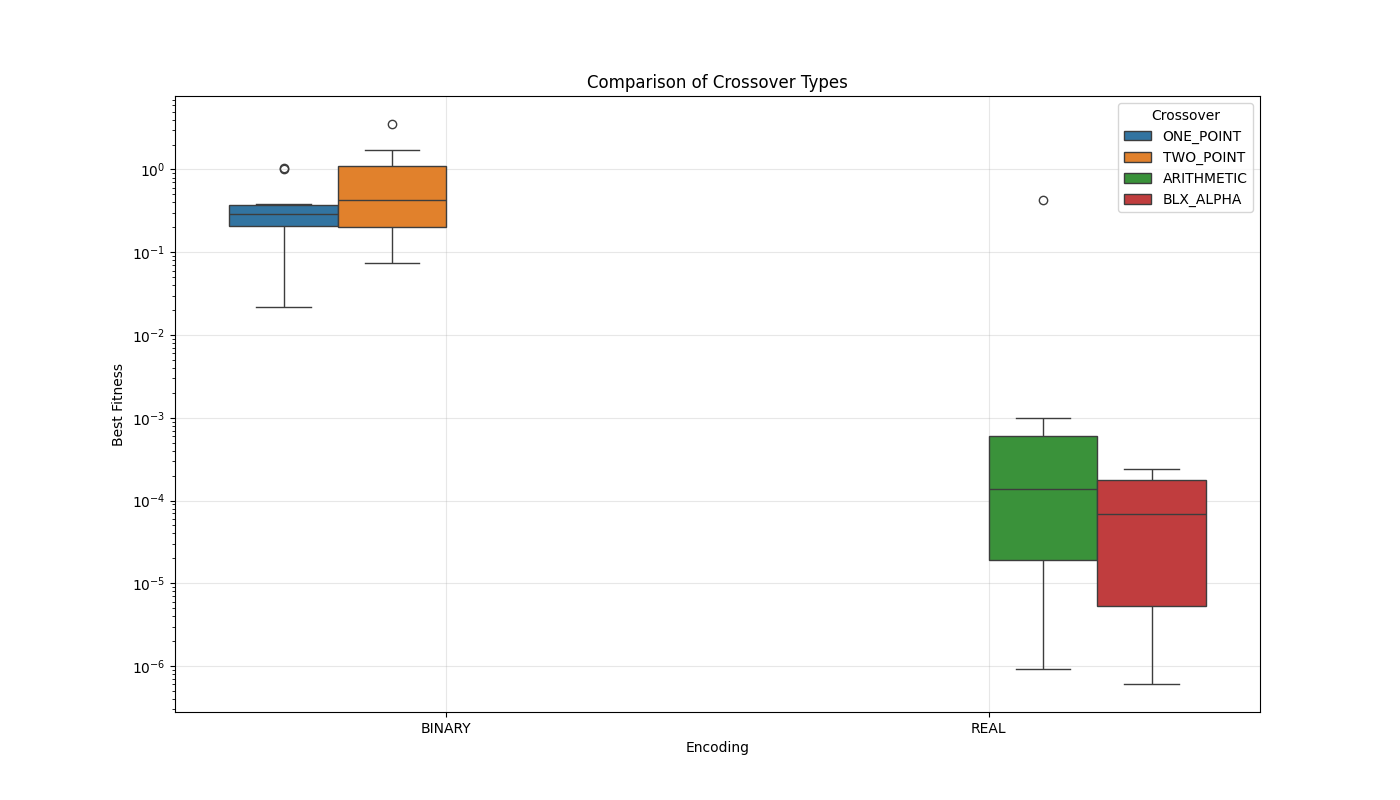
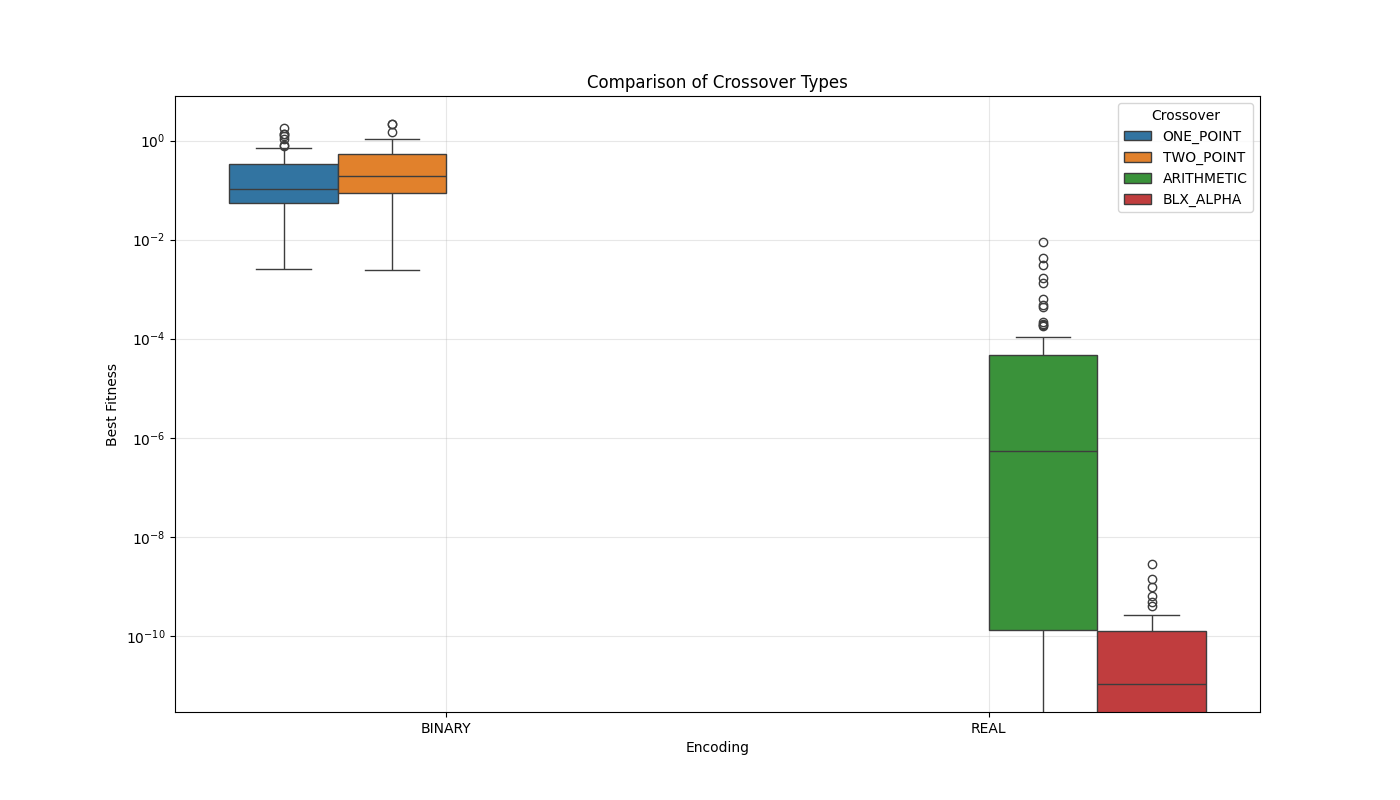
30 runs

diff --git a/Second year/Second semester/Artificial Intelligence/mini_project/main.py b/Second year/Second semester/Artificial Intelligence/mini_project/main.py
@@ -21,7 +21,7 @@ def main():
     
     # Run experiments
     print("\nRunning optimization experiments...")
-    results = run_all_experiments(functions, domains, function_names, num_runs=5, max_evaluations=2000)
+    results = run_all_experiments(functions, domains, function_names, num_runs=30, max_evaluations=5000)
     
     # Perform statistical analysis
     print("\nPerforming statistical analysis...")
